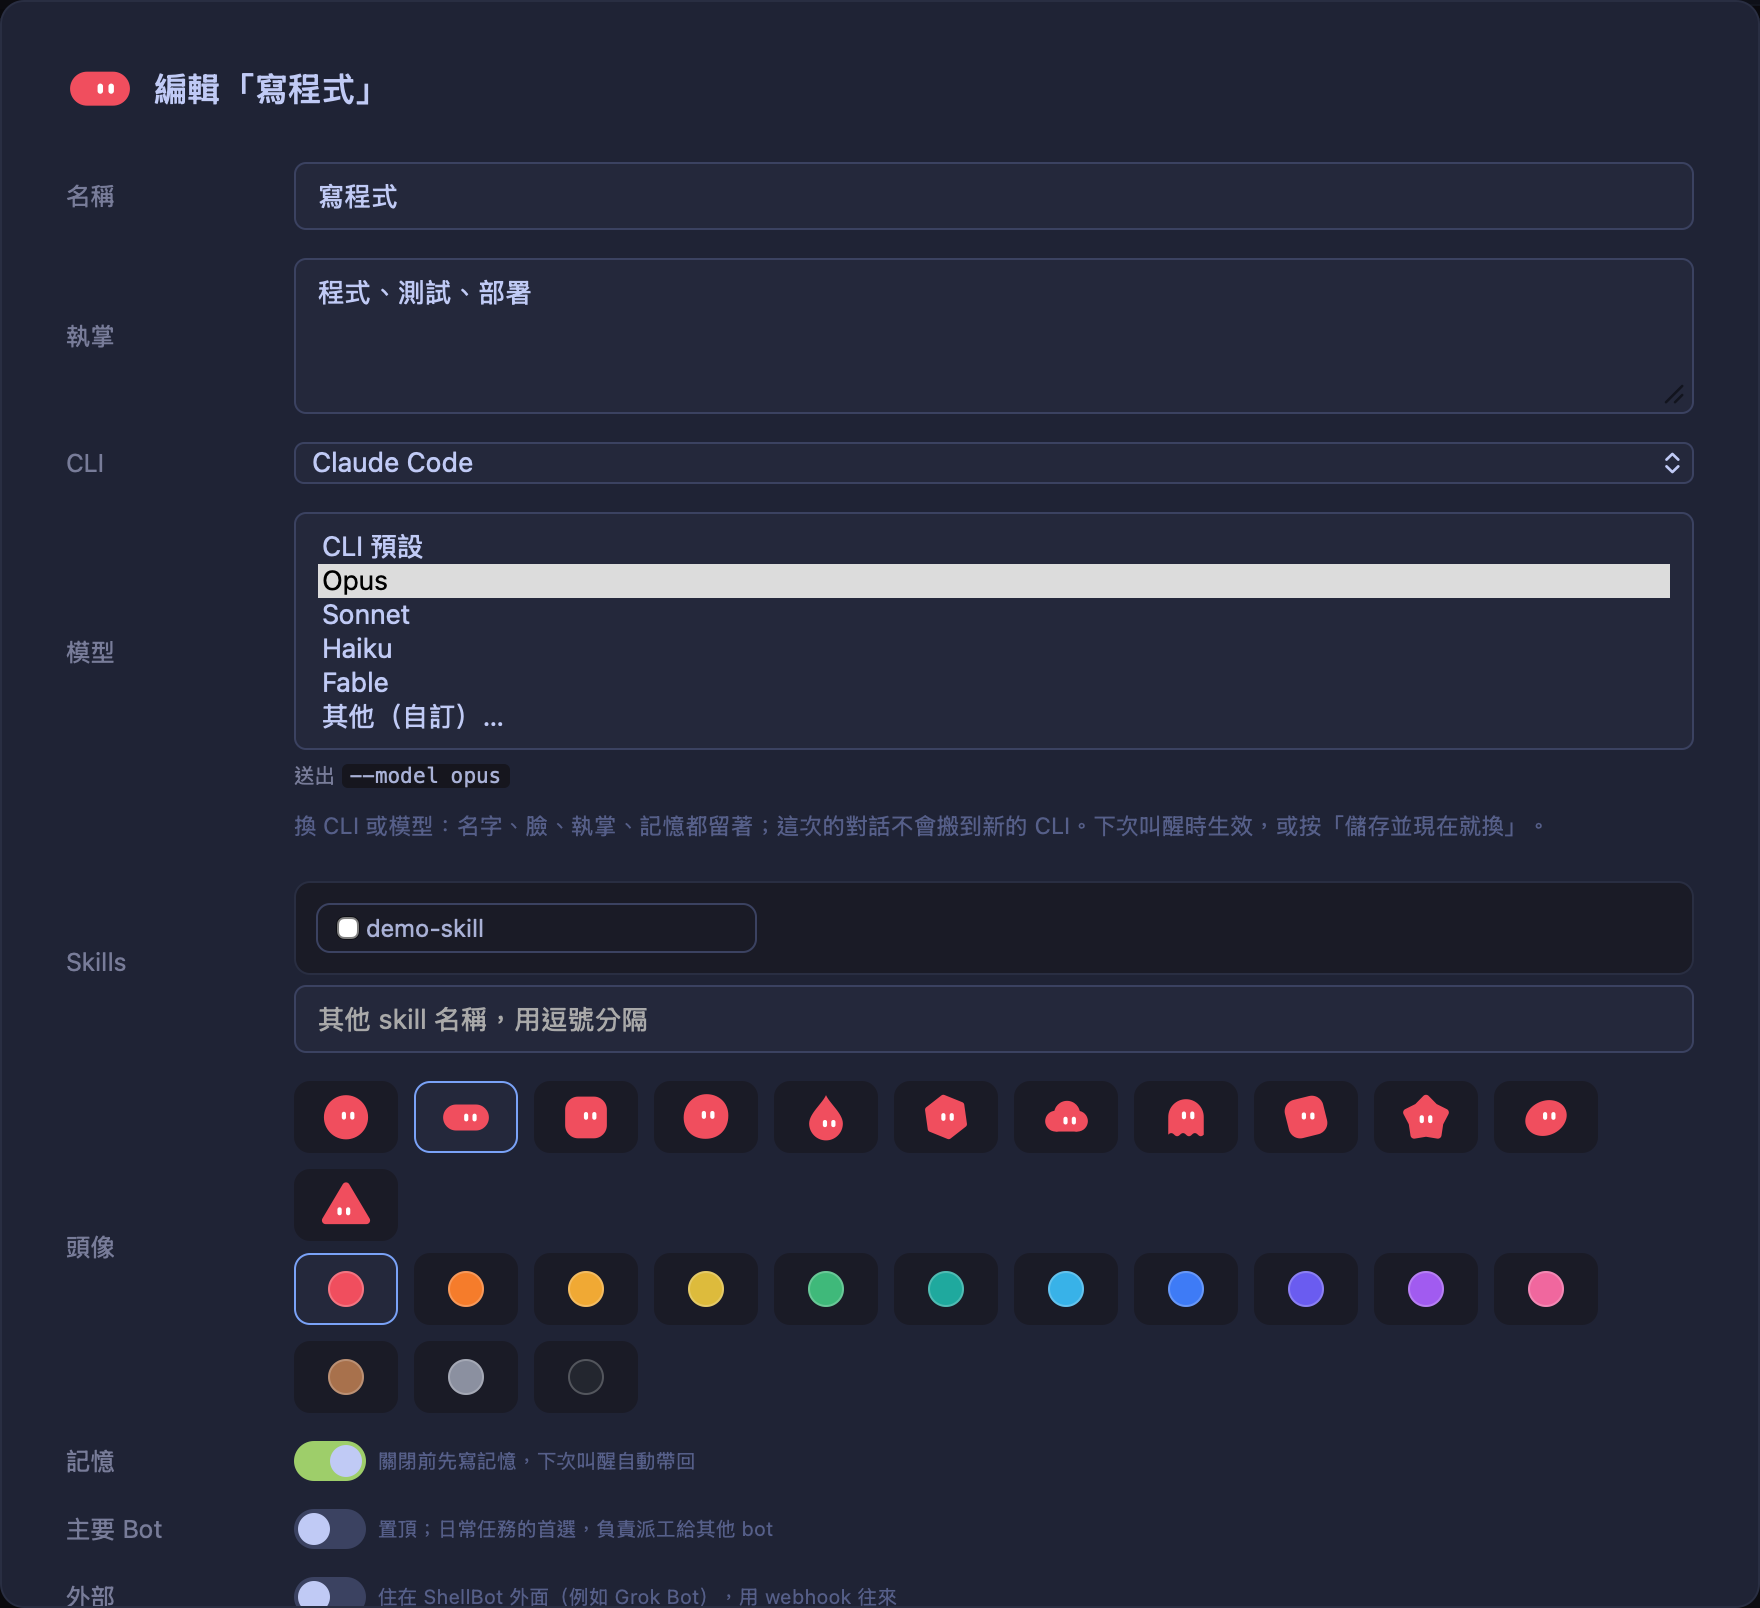
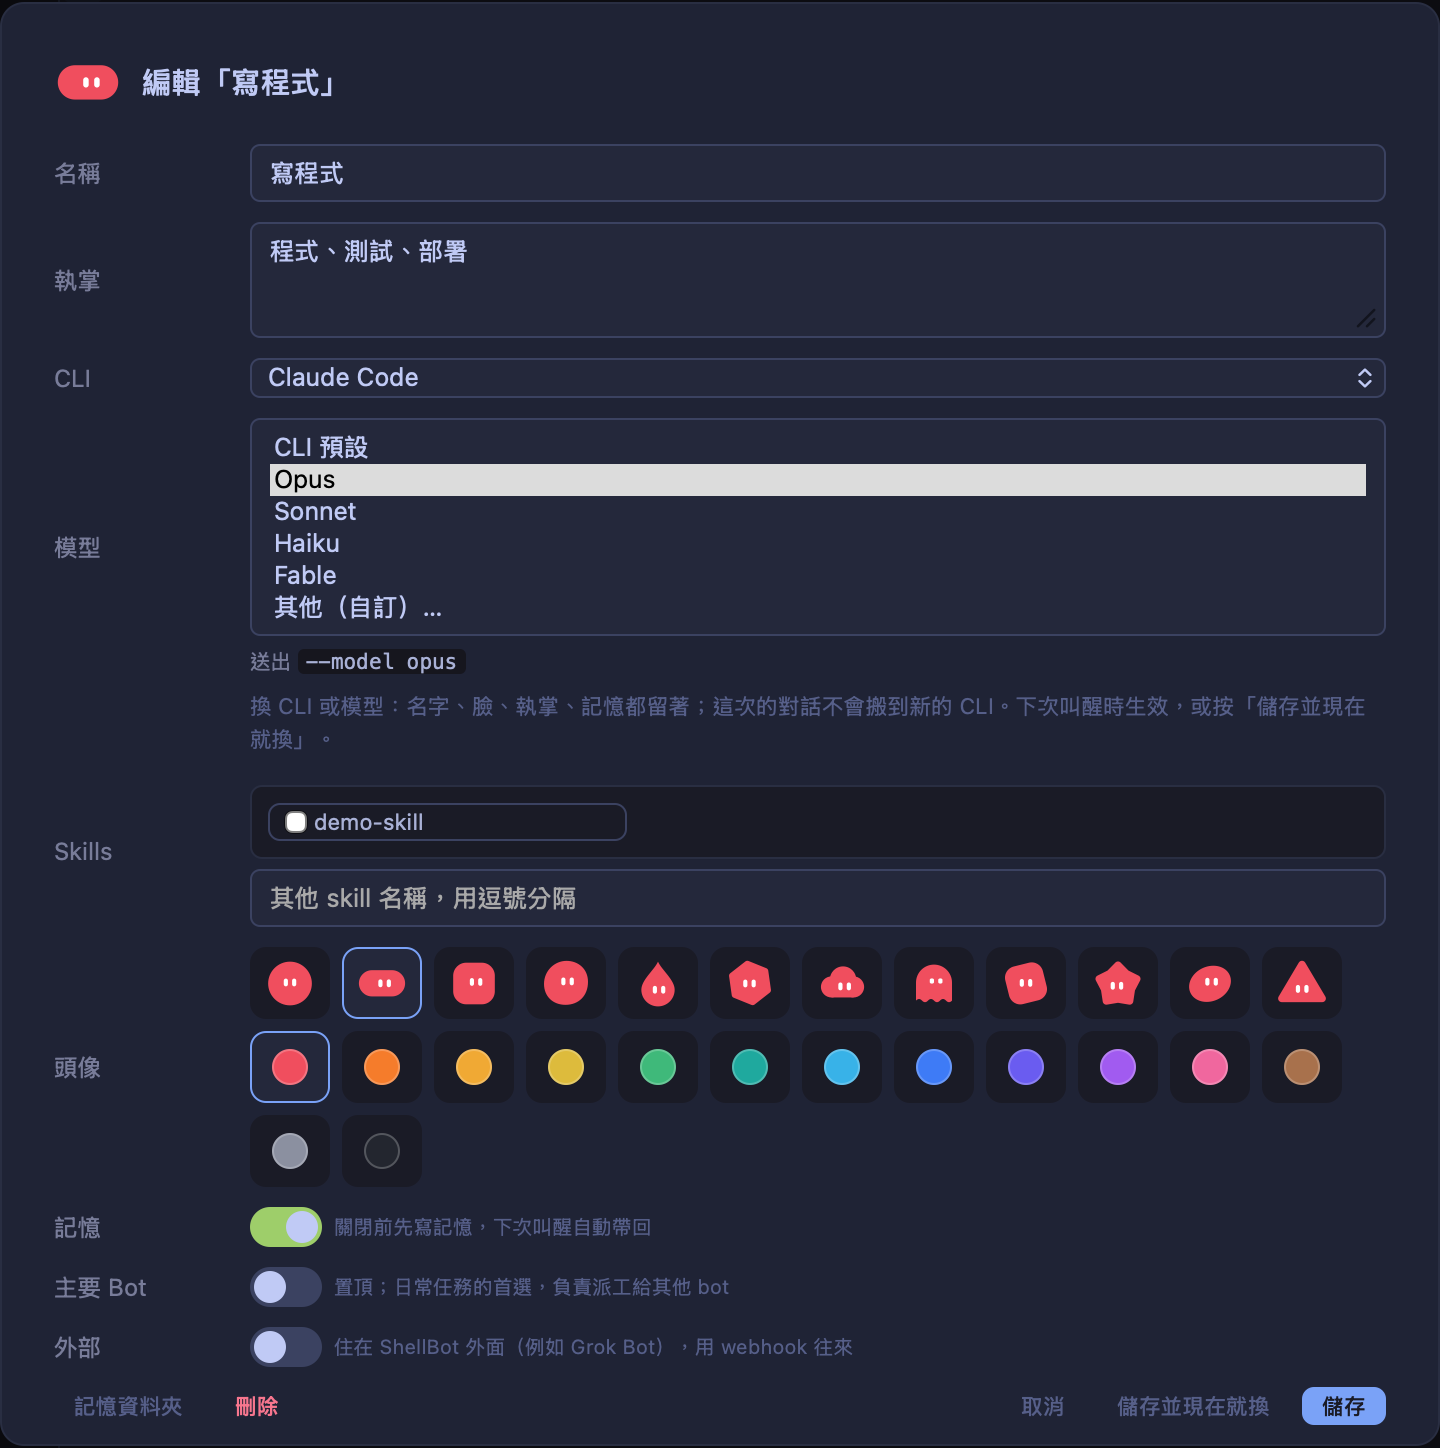
v0.42.1: an agent's message is not lost at the chain limit, a right-click never pastes by itself, a bot's settings are a click away
Release. The bot editor is a moderate 720px dialog with room around it (the first try filled the
window); the right-click menu test picks Paste by its text, as the chat view now also offers Reply.

diff --git a/web/bots.css b/web/bots.css
@@ -266,22 +266,22 @@ body.sfb-on #sfb-primary { display: block; }
 .sfb-chips input { margin: 0; }
 .sfb-modal .modal { width: 440px; max-width: calc(100vw - 32px); padding: 18px 20px; }
 .sfb-modal h2 { display: flex; align-items: center; gap: 10px; font-size: 14px; margin: 0 0 12px; }
-/* The bot editor uses the room the window has: wide, roomy rows, and the skills in columns that scroll in
-   their own box, instead of a 440px column taller than the screen */
-.sfb-modal .modal:has(#sfb-ed-name) { width: min(880px, calc(100vw - 64px)); max-height: calc(100vh - 56px);
-  overflow: auto; padding: 26px 32px 22px; box-sizing: border-box; }
-.sfb-modal .modal:has(#sfb-ed-name) h2 { font-size: 17px; margin-bottom: 20px; }
-.sfb-modal .modal:has(#sfb-ed-name) .sfb-grid { grid-template-columns: repeat(auto-fill, 52px); gap: 8px; }   /* faces stay face-sized in the wide editor */
-.sfb-modal .modal:has(#sfb-ed-name) .sfb-form { grid-template-columns: 96px 1fr; gap: 14px 18px; }
-.sfb-modal .modal:has(#sfb-ed-name) .sfb-form label { font-size: 12.5px; }
+/* The bot editor: wider than the old 440px column, never the whole window; the skills in columns
+   that scroll in a box of their own */
+.sfb-modal .modal:has(#sfb-ed-name) { width: min(720px, calc(100vw - 96px)); max-height: min(84vh, 860px);
+  overflow: auto; padding: 22px 26px 18px; box-sizing: border-box; }
+.sfb-modal .modal:has(#sfb-ed-name) h2 { font-size: 15px; margin-bottom: 14px; }
+.sfb-modal .modal:has(#sfb-ed-name) .sfb-grid { grid-template-columns: repeat(auto-fill, 40px); gap: 6px; }   /* faces stay face-sized */
+.sfb-modal .modal:has(#sfb-ed-name) .sfb-form { grid-template-columns: 84px 1fr; gap: 10px 14px; }
+.sfb-modal .modal:has(#sfb-ed-name) .sfb-form label { font-size: 12px; }
 .sfb-modal .modal:has(#sfb-ed-name) .sfb-form input[type=text],
 .sfb-modal .modal:has(#sfb-ed-name) .sfb-form textarea,
-.sfb-modal .modal:has(#sfb-ed-name) .sfb-form select { font-size: 13.5px; padding: 8px 11px; border-radius: 6px; }
-.sfb-modal .modal:has(#sfb-ed-name) .sfb-form textarea { min-height: 78px; }
-.sfb-modal .modal:has(#sfb-ed-name) .sfb-form .hint { font-size: 11.5px; line-height: 1.55; margin-top: -6px; }
-.sfb-modal .modal:has(#sfb-ed-name) #sfb-ed-skills { display: grid; grid-template-columns: repeat(auto-fill, minmax(190px, 1fr));
-  gap: 6px 8px; max-height: 34vh; overflow: auto; padding: 10px; border: 1px solid #292e42; border-radius: 8px; background: #1a1b26; }
-.sfb-modal .modal:has(#sfb-ed-name) #sfb-ed-skills label { font-size: 12px; padding: 4px 9px; border-radius: 7px; min-width: 0;
+.sfb-modal .modal:has(#sfb-ed-name) .sfb-form select { font-size: 12.5px; padding: 6px 9px; border-radius: 5px; }
+.sfb-modal .modal:has(#sfb-ed-name) .sfb-form textarea { min-height: 58px; }
+.sfb-modal .modal:has(#sfb-ed-name) .sfb-form .hint { font-size: 11px; line-height: 1.5; margin-top: -4px; }
+.sfb-modal .modal:has(#sfb-ed-name) #sfb-ed-skills { display: grid; grid-template-columns: repeat(auto-fill, minmax(150px, 1fr));
+  gap: 4px 6px; max-height: 180px; overflow: auto; padding: 8px; border: 1px solid #292e42; border-radius: 6px; background: #1a1b26; }
+.sfb-modal .modal:has(#sfb-ed-name) #sfb-ed-skills label { font-size: 11px; padding: 2px 7px; border-radius: 6px; min-width: 0;
   overflow: hidden; text-overflow: ellipsis; white-space: nowrap; }
 .sfb-modal h2 .sfb-avatar { width: 34px; height: 34px; }
 .sfb-note { font-size: 11px; color: #787c99; line-height: 1.6; margin: 8px 0 0; }

diff --git a/tests_right_click_menu.py b/tests_right_click_menu.py
@@ -27,6 +27,7 @@ qa-shots/right-click-menu-chat-webkit.png. Needs playwright; SKIP without it.
 Run: .venv/bin/python tests_right_click_menu.py
 """
 import json
+import re
 import pathlib
 import sys
 
@@ -184,7 +185,7 @@ def run(browser, engine):
 
     print(f"{tag} 3. Paste picked from the menu")
     right_click(page)
-    page.click(f"{MENU} .sf-menu-item")
+    page.locator(f"{MENU} .sf-menu-item", has_text=re.compile("Paste|貼上")).click()   # the chat view also offers Reply
     page.wait_for_timeout(400)
     check("the menu is gone", not menu_open(page))
     check("the text went in once, as a bracketed paste",
@@ -208,7 +209,7 @@ def run(browser, engine):
     page, errors = open_page(browser)
     page.evaluate("window.__clip.text = 'a long line of demo text. '.repeat(60)")
     right_click(page)
-    page.click(f"{MENU} .sf-menu-item")
+    page.locator(f"{MENU} .sf-menu-item", has_text=re.compile("Paste|貼上")).click()   # the chat view also offers Reply
     page.wait_for_timeout(400)
     check("the large-paste bar is up and nothing is written yet",
           page.evaluate("getComputedStyle(document.getElementById('paste-confirm-bar')).display") != "none" and writes(page) == [],
@@ -244,7 +245,7 @@ def run(browser, engine):
     page, errors = open_page(browser)
     page.evaluate("window.__clip.files = ['/demo/a.txt', '/demo/b.txt']")
     right_click(page)
-    page.click(f"{MENU} .sf-menu-item")
+    page.locator(f"{MENU} .sf-menu-item", has_text=re.compile("Paste|貼上")).click()   # the chat view also offers Reply
     page.wait_for_timeout(500)
     check("an AI tab attaches them: a bracketed path each, and two chips",
           writes(page) == [["s501", " \x1b[200~/demo/a.txt\x1b[201~"], ["s501", " \x1b[200~/demo/b.txt\x1b[201~"]]
@@ -254,7 +255,7 @@ def run(browser, engine):
     page.wait_for_timeout(500)
     before = len(writes(page))
     right_click(page)
-    page.click(f"{MENU} .sf-menu-item")
+    page.locator(f"{MENU} .sf-menu-item", has_text=re.compile("Paste|貼上")).click()   # the chat view also offers Reply
     page.wait_for_timeout(500)
     check("a plain terminal gets the paths typed",
           writes(page)[before:] == [["s502", "/demo/a.txt /demo/b.txt"]], writes(page)[before:])
@@ -311,7 +312,7 @@ def run(browser, engine):
     if engine == "webkit":
         page.screenshot(path=str(SHOTS / "right-click-menu-chat-webkit.png"),
                         clip={"x": 240, "y": 100, "width": 700, "height": 360})
-    page.click(f"{MENU} .sf-menu-item")
+    page.locator(f"{MENU} .sf-menu-item", has_text=re.compile("Paste|貼上")).click()   # the chat view also offers Reply
     page.wait_for_timeout(400)
     check("Paste went into the chat's input box", page.input_value("#chat-input") == "demo clipboard text", page.input_value("#chat-input"))
     check("…and the CLI under the view got nothing", writes(page) == [], writes(page))
